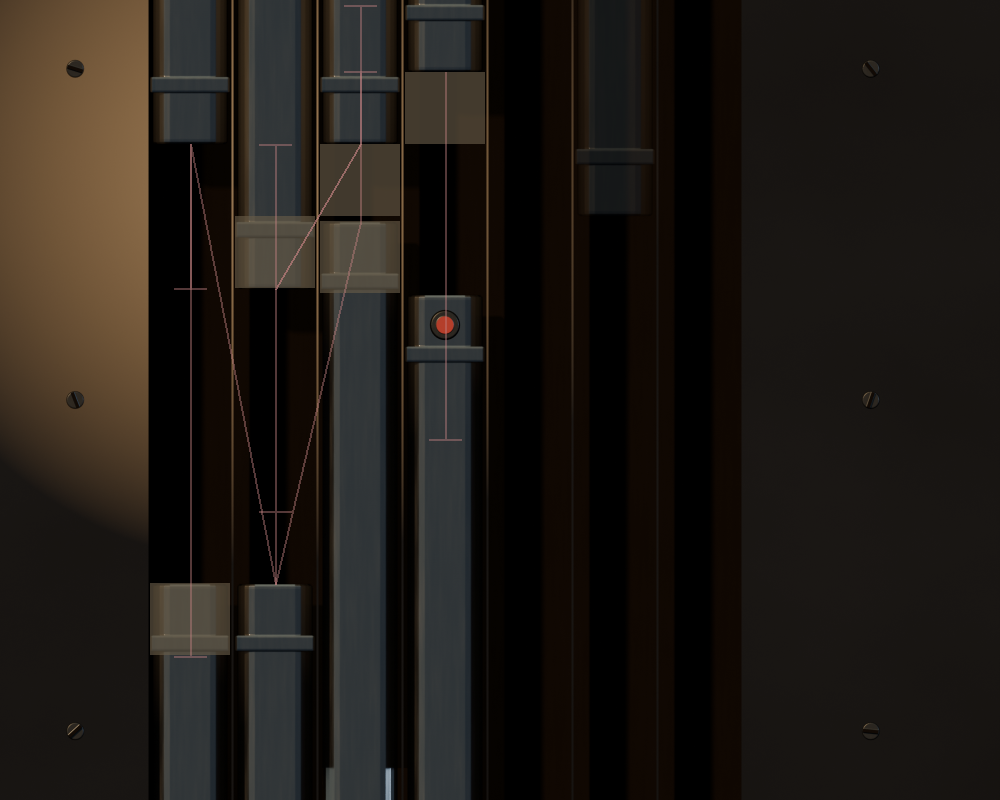
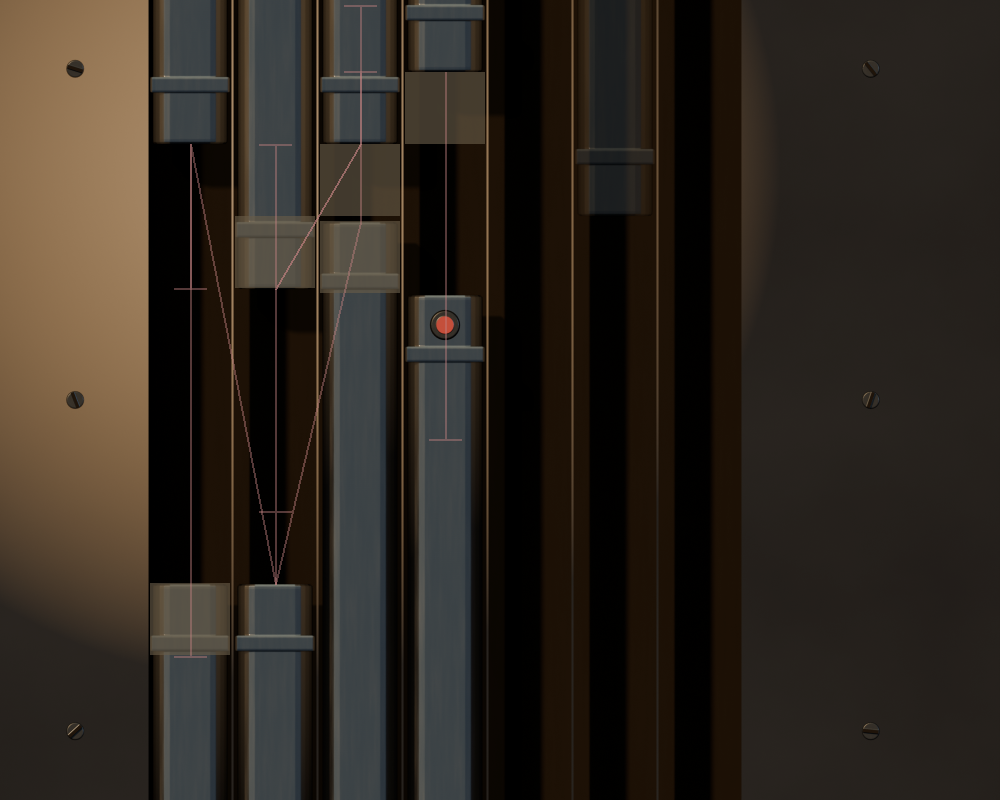
Improvements

diff --git a/src/lockpicker/game/animation.py b/src/lockpicker/game/animation.py
@@ -64,12 +64,21 @@ class Animation:
     def _max_value(self) -> int:
         return max(abs(change.end - change.start) for change in self.current_item.values())
 
+    def _eased_value(self) -> float:
+        span = self._max_value()
+        if span == 0:
+            return self.value
+
+        progress = min(self.value / span, 1.0)
+        return span * progress * progress * (3.0 - 2.0 * progress)
+
     def height(self, tumbler: Tumbler) -> float:
         change = self.current_item.get(tumbler.location)
         if change is None:
             return tumbler.height
 
+        value = self._eased_value()
         if change.end > change.start:
-            return change.start + min(self.value, change.end - change.start)
+            return change.start + min(value, change.end - change.start)
 
-        return change.start + max(-self.value, change.end - change.start)
+        return change.start + max(-value, change.end - change.start)

diff --git a/src/lockpicker/game/loop.py b/src/lockpicker/game/loop.py
@@ -2,6 +2,10 @@ from __future__ import annotations
 
 from typing import Protocol
 
+import pygame
+
+from lockpicker.constants.config import settings
+
 
 class Frame(Protocol):
     running: bool
@@ -10,6 +14,8 @@ class Frame(Protocol):
 
 
 def run_loop(frame: Frame) -> None:
+    clock = pygame.time.Clock()
     frame.running = True
     while frame.running:
         frame.frame()
+        clock.tick(settings.animation.fps)

diff --git a/src/lockpicker/constants/config.py b/src/lockpicker/constants/config.py
@@ -76,6 +76,7 @@ class AlphaConfig(Section):
 
 class AnimationConfig(Section):
     speed: float
+    fps: int
 
 
 class RulesConfig(Section):
